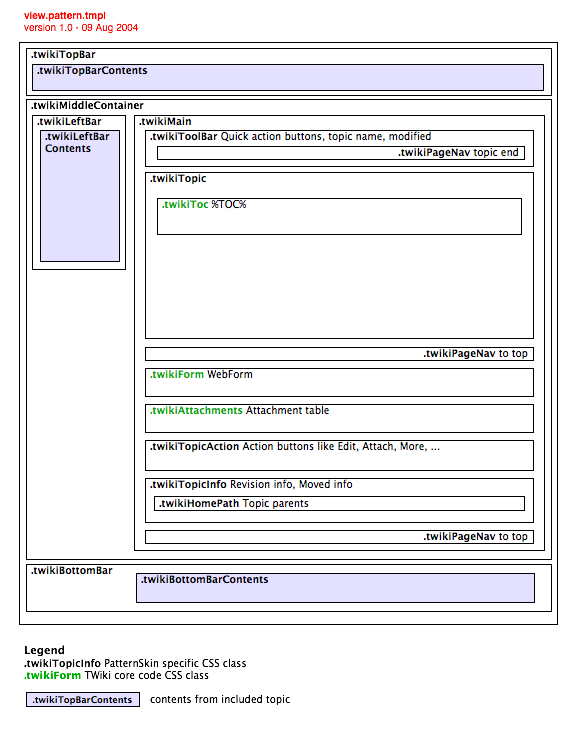
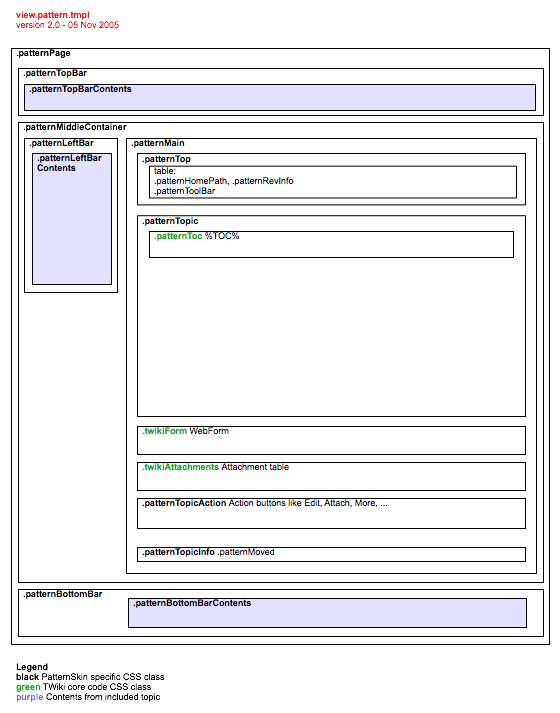
Item240: updated documentation and a few refactoringies
git-svn-id: http://develop.twiki.org/svn/twiki/branches/DEVELOP@7324 a00a5322-12db-0310-a70b-8735589c885e

Changed region(s): [[0.0304, 0.0, 0.9714, 0.9874]]

diff --git a/pub/TWiki/PatternSkin/style.css b/pub/TWiki/PatternSkin/style.css
@@ -501,10 +501,6 @@ a:hover .twikiAccessKey {
 	Pattern skin specific elements
 	-----------------------------------------------------------	*/
 
-.patternSeparator {
-	font-family:monospace;
-}
-
 .patternTopicAction {
 	font-size:94%; /*S2*/
 	line-height:1.5em;
@@ -565,28 +561,6 @@ a:hover .twikiAccessKey {
 	font-size:94%; /*S2*/
 }
 
-.patternMetaNav {
-	font-size:85%; /*S3*/
-}
-.patternMetaNav a:link,
-.patternMetaNav a:visited {
-	text-decoration:none;
-}
-.patternMetaNav .patternSeparator {
-	margin:0 .5em;
-}
-.patternMetaNav input#quickSearchBox,
-.patternMetaNav input#jumpBox {
-	margin:0 0 0 .85em;
-	padding:0;
-	height:1.2em; /* 85% of default line-height 1.4 */
-}
-.patternMetaNav input#quickSearchButton,
-.patternMetaNav input#jumpButton {
-	margin:0 0 0 2px;
-	border:0;
-}
-
 /* Left bar */
 .patternLeftBar {
 	border-width:1px 0 0 0;
@@ -610,25 +584,21 @@ a:hover .twikiAccessKey {
 	padding-left:0;
 	margin-right:2em; /*S6*/ /*needed for proper wrapping: 1em is left margin, 1em is right margin*/
 }
-.patternLeftBar .patternForm {
+.patternLeftBar .patternFormHolder {
 	margin:.5em 0 1em 0;
 }
-html>body .patternLeftBar .patternForm { /* Hide from IE */
+html>body .patternLeftBar .patternFormHolder { /* Hide from IE */
 	margin-top:1.25em;
 }
-.patternLeftBar .patternForm table {
+.patternLeftBar .patternFormHolder table {
 	width:100%;
 }
-.patternLeftBar .patternForm th {
+.patternLeftBar .patternFormHolder th {
 	padding:0 0 2px 0;
 	vertical-align:middle;
 }
-.patternLeftBar .patternForm th.patternFromSpacer {
+.patternLeftBar .patternFormHolder th.patternFormSpacer {
 	width:1%;
-}
-.patternLeftBar .patternForm th.patternFormFieldButton {
-	width:20px;
-	padding:0 0 0 4px;
 }
 .patternLeftBar input.patternFormField {
 	display:block;
@@ -810,7 +780,7 @@ input.patternFormFieldVerticalForm {
 	text-decoration:underline;
 }
 .patternSig {
-	margin:.25em 0 .5em 0;
+	margin:.25em 0;
 }
 
 .patternAccessKeyInfo {

diff --git a/pub/TWiki/PatternSkin/colors.css b/pub/TWiki/PatternSkin/colors.css
@@ -380,19 +380,7 @@ a:hover .twikiAccessKey {
 .patternTopBarContents .patternSearchBox td {
 	color:#8E9195; /*T8*/
 }
-.patternMetaNav {
-	color:#8E9195; /*T8*/
-}
-.patternMetaNav a:link,
-.patternMetaNav a:visited {
-	color:#8E9195; /*T7*/
-}
-.patternMetaNav a:hover {
-	color:#FBF7E8; /*C3*/
-}
-.patternMetaNav input {
-	background-color:#FEFBF3; /*BG9*/
-}
+
 /* Left bar */
 .patternLeftBar {
 	border-color:#E2DCC8; /*BO4*/
